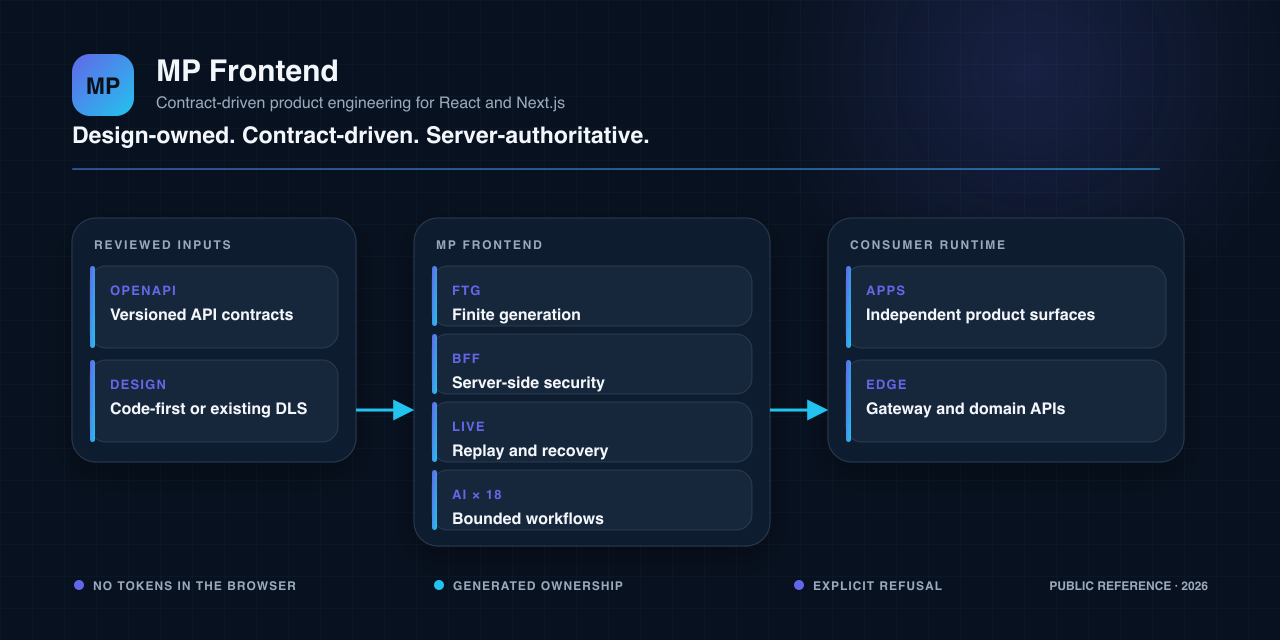
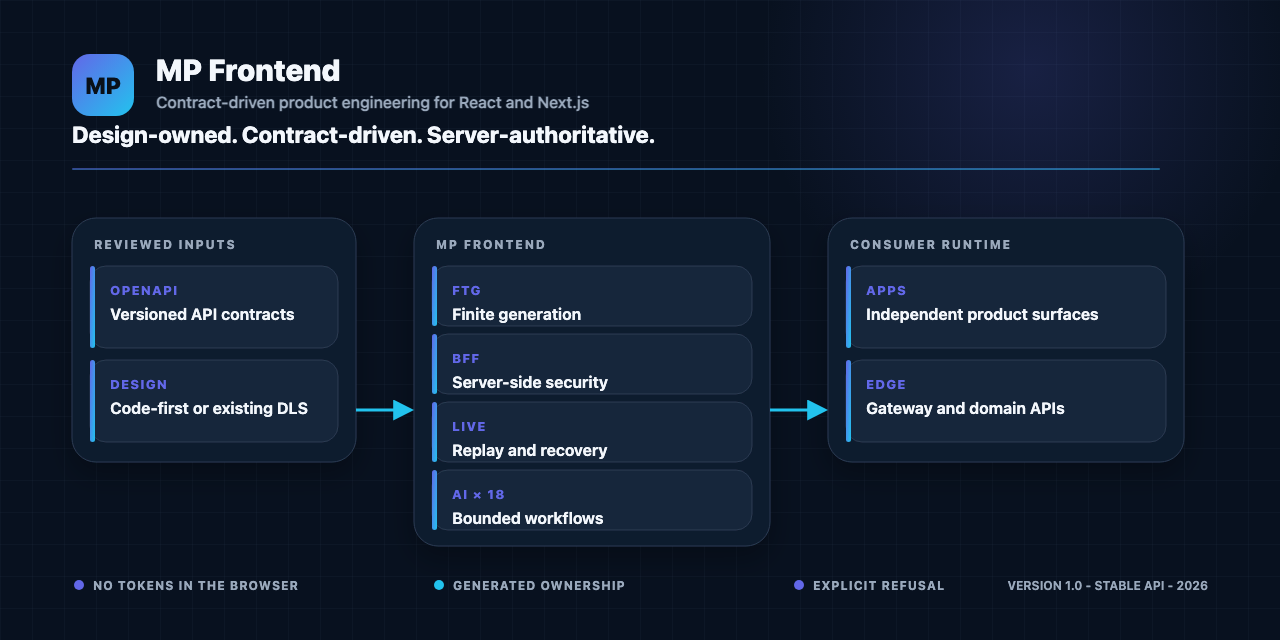
Bring the README, the guides and the pictures to the 1.0.0 release
The README now leads with 1.0.0 as the first stable major version, gives a quick start from npm (the
CLI of the release creates the workspace, which pins the cohort and binds the scope), says how to upgrade
a workspace from 0.1.0, and answers the production and npm questions for 1.0.0. Getting started points to
the quick start; the status document names 1.0.0 as released; the security policy lists the supported
versions by the policy of README "Versioning"; the release guide names the platform on which a local pack
gives the same bytes. The pictures carry the version, and the social preview is rendered again from its
source.

diff --git a/README.md b/README.md
@@ -33,12 +33,13 @@ product ownership, or human review to generators or AI agents.
 </picture>
 
 > [!IMPORTANT]
-> MP Frontend is a verified public source project at **version 1.0.0**, its first stable major version: from it on,
-> only a major version breaks the public API ([Versioning](#versioning)). Its sixteen packages share one version and
-> are released to the public npm registry by a release workflow; `0.1.0` is published
-> ([release record](docs/releases/0.1.0.md)), and every build compares the API with its archives. The
+> **MP Frontend 1.0.0** is the first stable major version: from it on, only a major version breaks the public API
+> ([Versioning](#versioning)). Its sixteen packages share one version and are released to the public npm registry under
+> `@mpfrontend` by a release workflow, with npm provenance; every build compares the API with the last published
+> archives. Start a product with the [Quick start](#quick-start-a-new-product-workspace). The
 > [Tiffin reference](https://github.com/panahister/mpfrontend-tiffin-reference) still uses its own vendored,
-> hash-checked development cohort. See [Maturity and scope](#maturity-and-scope) before choosing it for production.
+> hash-checked development cohort until it moves to 1.0.0. See [Maturity and scope](#maturity-and-scope) for what a
+> product still owns before production.
 
 ## What MP Frontend is
 
@@ -89,10 +90,47 @@ MP Frontend makes those boundaries explicit:
 | Your product has no existing design system | Initialize with design source `none`; own tokens and composition in your product repository |
 | Your product already has a Figma file or DLS | Initialize with `existing`; attach a reviewed normalized export without changing or publishing the source file |
 | You want AI assistance | Install the Base or Design procedure profile into the consumer repository; keep the same human review gates |
-| You need a registry package | Install the `@mpfrontend` cohort from the public npm registry at one exact version once a release is published, with the scope bound in `.npmrc`; read [Versioning](#versioning) |
+| You start a product | Follow the [Quick start](#quick-start-a-new-product-workspace): the CLI of `1.0.0` creates a workspace that pins the cohort from npm and binds the scope in `.npmrc` |
+| You have a workspace created by `0.1.0` | Read [Upgrading from 0.1.0](#upgrading-from-010) |
 
 For a guided source walkthrough, read [Getting started](docs/GETTING-STARTED.md). For the exact current
 capability and limitation matrix, read [Implementation status](docs/IMPLEMENTATION-STATUS.md).
+
+## Quick start: a new product workspace
+
+You need Node.js 24 and pnpm `11.25.0`. The CLI of a release creates the workspace; every `@mpfrontend` package is then
+pinned to that exact version and the scope is bound to the public npm registry in `.npmrc`:
+
+```bash
+pnpm --package=@mpfrontend/ftg-cli@1.0.0 dlx mpfrontend init --name my-product --directory ./my-product --design-source none
+cd my-product
+pnpm install
+pnpm exec mpfrontend create app --name customer --directory apps/customer
+pnpm install
+```
+
+`init` refuses a directory that exists and changes nothing else: it installs nothing, runs no Git command and calls no
+design tool. Use `--design-source existing` when your product already owns an approved Figma file or design system.
+The app's catalog example reads an approved OpenAPI contract that you supply under
+`contracts/openapi/presentation/customer/openapi.json` (the workspace's `contracts/README.md` says how); with it,
+`pnpm check` runs formatting, lint, type checks, tests, builds and the generated-code and catalog checks of every project.
+Until it is there, the catalog's contract test fails on purpose. The workspace's own README lists the next steps
+(features, routes, shared packages, the optional design source and AI procedures), and the [CLI guide](docs/CLI-GUIDE.md)
+describes every command.
+
+pnpm 11 resolves a version only after it has been published for a day; on the first day of a release it says so and adds
+the version to `minimumReleaseAgeExclude` in its default mode.
+
+## Upgrading from 0.1.0
+
+Set every `@mpfrontend/*` version of the workspace to `1.0.0` (they are exact pins in the root `package.json` and in
+each app and package), run `pnpm install`, then `pnpm check`. The [changelog](CHANGELOG.md), in its 1.0.0 section, lists
+every change since `0.1.0`, the behaviour changes first: a streamed answer that a browser would run as a document needs
+an attachment or a sandboxing policy; the server entry of the access bindings refuses to load where a `document` exists;
+server data seeds only the scope it was read in; the URL state keeps its sort and filters under a closed or expired
+snapshot; and `ResourceForm` with `access` needs `original`. Exports that moved to an `internal` entry are listed there by
+package; none of them is imported by a template or a generator. The `mpfrontend-upgrade-project` AI procedure follows the
+same steps.
 
 ## See the reference product running
 
@@ -618,7 +656,7 @@ production-certified platform.
 
 ## Maturity and scope
 
-### Implemented and verified in this source release
+### Implemented and verified in 1.0.0
 
 - Deterministic workspace/application scaffolding.
 - Selected finite OpenAPI read and mutation profiles.
@@ -631,8 +669,6 @@ production-certified platform.
 
 ### Not shipped or not claimed
 
-- `1.0.0` on npm: this tree declares it, and the release workflow publishes it when the owner starts and approves the
-  run; `0.1.0` is the version on npm today.
 - A public MP Frontend Figma Community library.
 - Automatic Figma extraction, watching, mutation, or publication.
 - Arbitrary OpenAPI support or automatic screen generation.
@@ -648,18 +684,20 @@ piece of evidence is missing.
 <details>
 <summary><strong>Is MP Frontend ready for production?</strong></summary>
 
-Not as a general production-certified platform. The source, package boundary, independent consumer, and
-Tiffin reference are verified. Registry stability, production HA/TLS/key custody, load qualification,
-formal accessibility acceptance, and independent security review remain separate gates.
+1.0.0 is a stable public API under a stated compatibility policy, with a verified source, package boundary, independent
+consumer and Tiffin reference. It is not a production-certified platform: production HA, TLS and key custody, load
+qualification, formal accessibility acceptance and an independent security review of a product remain that product's own
+gates.
 </details>
 
 <details>
 <summary><strong>Can I install the packages from npm?</strong></summary>
 
-Yes, from `0.1.0`: the cohort is on the public npm registry under `@mpfrontend`, published with provenance, and a
-generated workspace binds the scope to it. [`docs/releases/0.1.0.md`](docs/releases/0.1.0.md) lists the SHA-256 and the
-integrity of each archive. The Tiffin reference still uses its own vendored, hash-checked package cohort. Do not trust an
-arbitrary registry package using these names.
+Yes. Every `@mpfrontend` package is on the public npm registry at one version, published from the main branch by the
+release workflow with npm provenance; `npm audit signatures` verifies the registry signature and the provenance of each.
+A workspace that `mpfrontend init` created binds the scope to the registry and pins the cohort exactly. Each release has a
+record under [`docs/releases/`](docs/releases) with the SHA-256 and the integrity of every archive. The Tiffin reference
+still uses its own vendored, hash-checked package cohort. Do not trust an arbitrary registry package using these names.
 </details>
 
 <details>

diff --git a/docs/IMPLEMENTATION-STATUS.md b/docs/IMPLEMENTATION-STATUS.md
@@ -2,8 +2,8 @@
 
 Updated: 2026-10-13.
 
-MP Frontend declares 1.0.0, its first stable major version; `0.1.0` is published. This document separates what the
-current source proves from the work still required for production deployment.
+MP Frontend 1.0.0 is the first stable major version, released to the public npm registry under `@mpfrontend`. This
+document separates what the current source proves from the work still required for production deployment.
 
 ## Verified source cohort
 
@@ -97,7 +97,7 @@ own check, against a contract that declares the list's query parameters. Depende
 | Consumer-owned design attachment | Implemented | `none` and `existing`; hash, path, symlink, lock, and drift refusal |
 | Public MP Frontend Figma library | Not shipped | Deliberately outside the MVP scope |
 | Repository-scoped AI procedures | Implemented | Fourteen Base and four optional Design procedures |
-| Registry package distribution | Published, `0.1.0` | The release workflow (started by hand; guards before the build, the complete gate, a record of SHA-256 and integrity, publication by an approved job in the environment `npm` on main with npm provenance, `latest` never given to a prerelease), its guards' source tests and self-test, and an install from two throw-away local registries: the generated scope binding keeps a decoy registry from serving `@mpfrontend`, exact pins keep a newer version out, each with a seeded control observed failing. The workflow ran on GitHub on 2026-10-12: a rehearsal, two attempts that stopped before any package reached the registry (a path that npm read as a repository, a token without the box that bypasses two-factor authentication), and the re-run that published all sixteen. `npm audit signatures` over the published cohort verified 190 packages with 0 invalid and 0 missing, and each of the sixteen carries a provenance attestation naming the release commit. The audit step of the registry-install script first failed on an npm peer conflict when it installed the sixteen into a bare folder; it was repaired for 0.1.1 and now passes against the published cohort |
+| Registry package distribution | Published, `0.1.0` and `1.0.0` | The release workflow (started by hand; guards before the build, the complete gate, a record of SHA-256 and integrity, publication by an approved job in the environment `npm` on main with npm provenance, `latest` never given to a prerelease), its guards' source tests and self-test, and an install from two throw-away local registries: the generated scope binding keeps a decoy registry from serving `@mpfrontend`, exact pins keep a newer version out, each with a seeded control observed failing. The workflow ran on GitHub on 2026-10-12: a rehearsal, two attempts that stopped before any package reached the registry (a path that npm read as a repository, a token without the box that bypasses two-factor authentication), and the re-run that published all sixteen. `npm audit signatures` over the published cohort verified 190 packages with 0 invalid and 0 missing, and each of the sixteen carries a provenance attestation naming the release commit. The audit step of the registry-install script first failed on an npm peer conflict when it installed the sixteen into a bare folder; it was repaired for 0.1.1 and now passes against the published cohort |
 | Public API and compatibility policy | Enforced | README "Versioning": from 1.0.0 only a major version breaks, a minor version only adds, a patch changes no export, a deprecated export stays for at least one minor version, and an entry named `internal` is outside the guarantee; one `api-report.json` per package compared on every check, and every build compares the API with the published `0.1.0` archives that `tools/distribution/api-baseline.json` names with the integrity of their bytes |
 
 ## Reference implementation

diff --git a/SECURITY.md b/SECURITY.md
@@ -11,12 +11,19 @@ mitigation. Remove credentials, access tokens, session cookies, private URLs, pe
 design material from the report.
 
 The maintainer will acknowledge a complete report, investigate it, and coordinate disclosure after a
-fix or mitigation is available. No fixed response time is promised for this proof-of-concept project.
+fix or mitigation is available. No fixed response time is promised.
 
 ## Supported versions
 
-MP Frontend is currently a prerelease source project. Only the latest commit on `main` is evaluated for
-security fixes. No older prerelease line receives backports unless a release note says otherwise.
+| Version | Security fixes |
+|---|---|
+| 1.x | Yes: a fix ships in a new 1.x version of the whole cohort |
+| 0.x (0.1.0) | Security fixes and fixes of defects that lose data or break security, for 12 months from the release of 1.0.0, as below; upgrade to 1.x as README "Upgrading from 0.1.0" describes |
+
+When a new major version is released, the previous major version receives security fixes and fixes of defects that
+lose data or break security for 12 months, never past the end of support of the Node version it targets, as README
+"Versioning" says. A fix is never published again under an existing version: it takes the next version, and an
+affected version is deprecated on npm with a message.
 
 ## Security model
 

diff --git a/docs/RELEASE-GUIDE.md b/docs/RELEASE-GUIDE.md
@@ -134,7 +134,9 @@ account has two-factor authentication); an install of it then prints the message
 
 Without registry access, a consumer installs the archives of a release: download them from the GitHub Release (the
 sixteen archives and `SHA256SUMS.txt`), check them with `shasum -a 256 -c SHA256SUMS.txt`, force them through pnpm `overrides` (`file:` paths) and lock the
-same SHA-256 values as the release record. `pnpm pack:local` packs the same bytes from the same tree.
+same SHA-256 values as the release record. `pnpm pack:local` on Linux packs the same bytes from the same tree, as the release workflow does; on macOS the gzip
+header of each archive differs in one byte (the operating-system field, 13 against 03), while the tar contents are the
+same.
 
 ## Notes for consumers
 

diff --git a/docs/GETTING-STARTED.md b/docs/GETTING-STARTED.md
@@ -1,9 +1,9 @@
 # Getting started
 
-MP Frontend is released to the public npm registry under `@mpfrontend`, one version for all its packages; no
-version is published yet, so until then it is distributed as source and locally packed packages. Use the
-reference product when you want a complete product example; use this guide when you want to evaluate or
-contribute to the foundation itself.
+MP Frontend 1.0.0 is on the public npm registry under `@mpfrontend`, one version for all its packages. To start a
+product, follow the [Quick start](../README.md#quick-start-a-new-product-workspace) of the README. Use the reference
+product when you want a complete product example; use this guide when you want to evaluate or contribute to the
+foundation itself.
 
 ## Prerequisites
 
